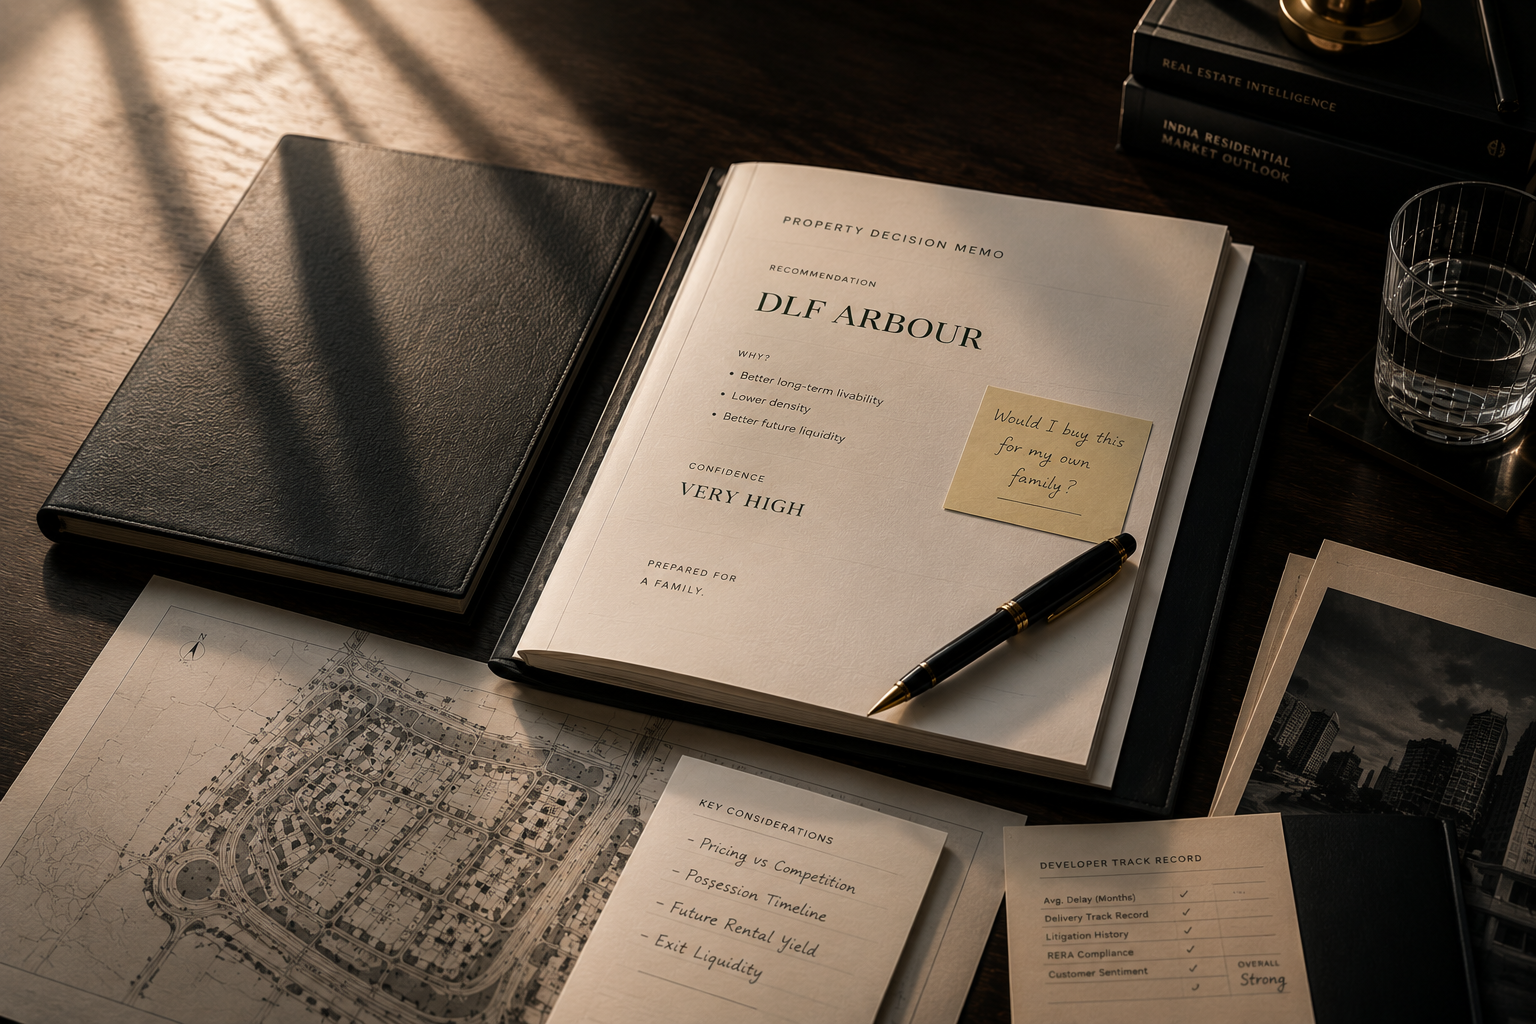
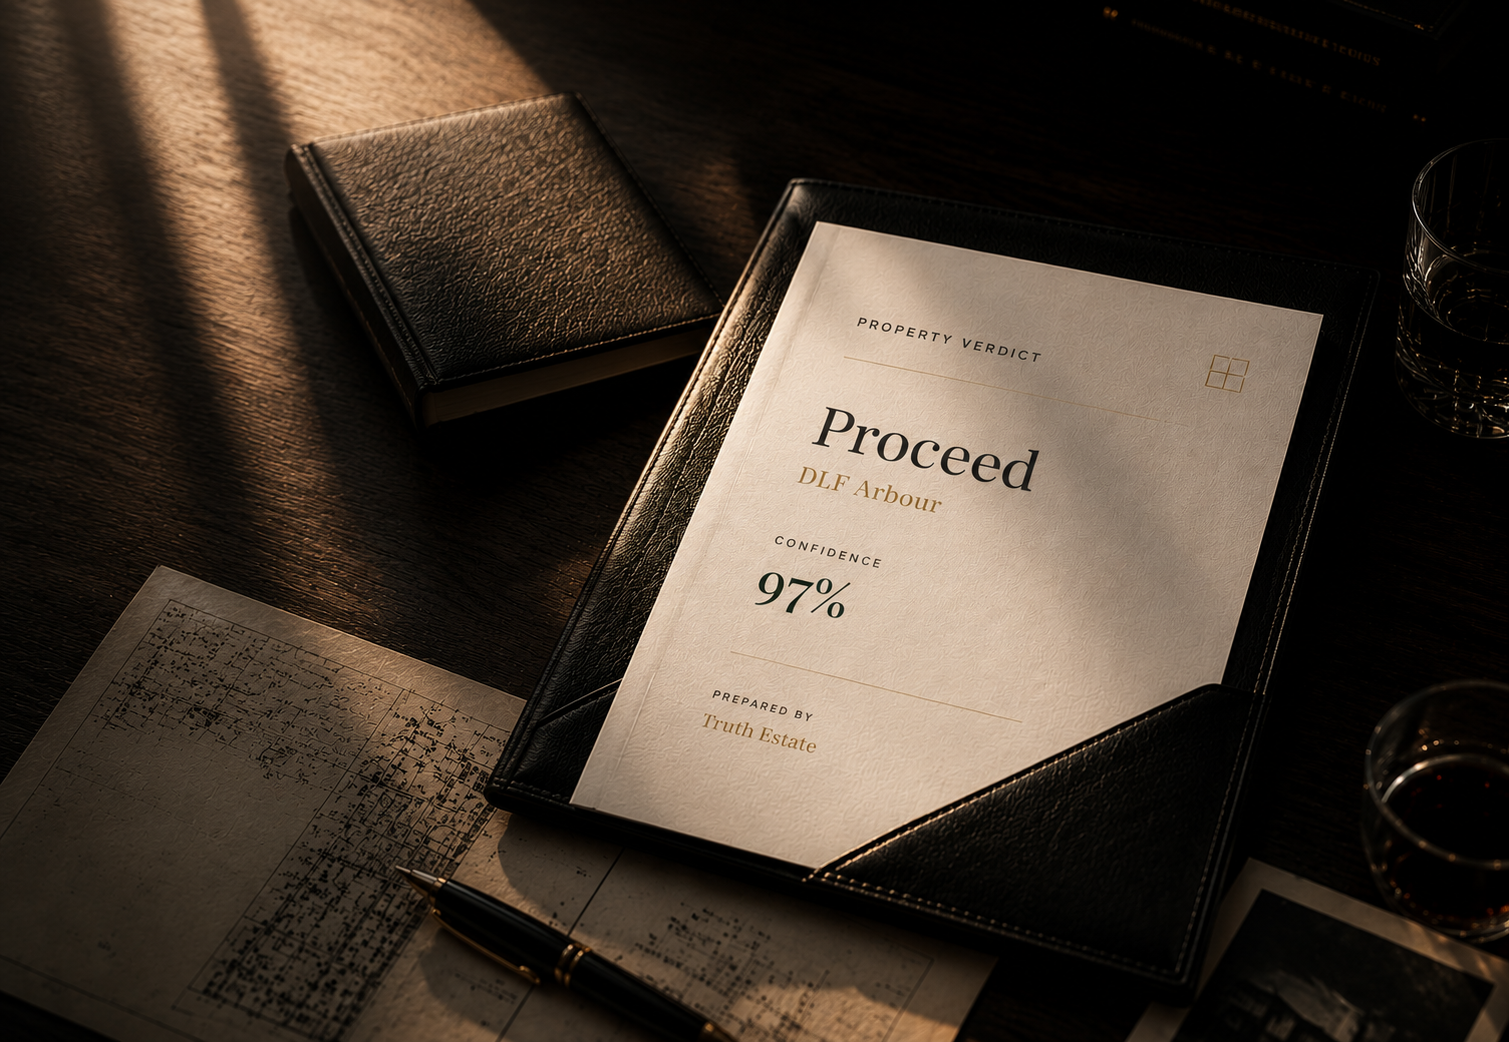
Remove HTML verdict overlay — verdict now photographed into background
New hero images have the Property Verdict document content baked directly
into the photograph. Removed the HTML card overlay and retuned all CSS
effects (depth-of-field mask, brightness, readability gradient) for the
new compositions.

Claude-Session: https://claude.ai/code/session_01BiNARstnZ88zbJRepoGmRd

diff --git a/src/components/Hero.tsx b/src/components/Hero.tsx
@@ -15,21 +15,21 @@ export default function Hero() {
           className="absolute inset-0 h-full w-full object-cover"
           style={{
             objectPosition: "center center",
-            transform: "scale(1.03) rotate(-0.4deg)",
-            filter: "brightness(0.50) contrast(1.20) saturate(1.08)",
+            transform: "scale(1.01) rotate(-0.15deg)",
+            filter: "brightness(0.68) contrast(1.10) saturate(1.02)",
           }}
         />
 
-        {/* Depth of field — sharp zone around the verdict */}
+        {/* Depth of field — verdict document stays sharp */}
         <div
           className="absolute inset-0"
           style={{
-            backdropFilter: "blur(2.5px)",
-            WebkitBackdropFilter: "blur(2.5px)",
+            backdropFilter: "blur(1.8px)",
+            WebkitBackdropFilter: "blur(1.8px)",
             maskImage:
-              "radial-gradient(ellipse 26% 42% at 76% 50%, transparent 28%, black 100%)",
+              "radial-gradient(ellipse 28% 48% at 60% 50%, transparent 28%, black 100%)",
             WebkitMaskImage:
-              "radial-gradient(ellipse 26% 42% at 76% 50%, transparent 28%, black 100%)",
+              "radial-gradient(ellipse 28% 48% at 60% 50%, transparent 28%, black 100%)",
           }}
         />
 
@@ -38,7 +38,7 @@ export default function Hero() {
           className="absolute inset-0"
           style={{
             background:
-              "radial-gradient(ellipse 60% 50% at 15% 10%, rgba(255,220,170,0.035) 0%, transparent 100%)",
+              "radial-gradient(ellipse 60% 50% at 15% 10%, rgba(255,220,170,0.025) 0%, transparent 100%)",
           }}
         />
 
@@ -47,7 +47,7 @@ export default function Hero() {
           className="absolute inset-0"
           style={{
             background:
-              "radial-gradient(ellipse 70% 65% at 50% 50%, transparent 40%, rgba(4,6,5,0.48) 100%)",
+              "radial-gradient(ellipse 72% 68% at 50% 50%, transparent 42%, rgba(4,6,5,0.42) 100%)",
           }}
         />
 
@@ -56,108 +56,9 @@ export default function Hero() {
           className="absolute inset-0"
           style={{
             background:
-              "linear-gradient(to right, rgba(4,6,5,0.78) 0%, rgba(4,6,5,0.42) 25%, rgba(4,6,5,0.08) 45%, transparent 55%)",
+              "linear-gradient(to right, rgba(4,6,5,0.78) 0%, rgba(4,6,5,0.45) 22%, rgba(4,6,5,0.10) 38%, transparent 48%)",
           }}
         />
-
-        {/* ─── The Verdict ─── */}
-        <div
-          className="absolute right-[4%] top-1/2 z-10 hidden lg:block"
-          style={{ transform: "translateY(-50%) rotate(-0.8deg)" }}
-        >
-          <div
-            className="animate-fade-up"
-            style={{ animationDelay: "500ms", perspective: "1200px" }}
-          >
-            <div
-              className="verdict-card w-[358px]"
-              style={{
-                background: "rgba(245, 240, 232, 0.90)",
-                padding: "60px 52px",
-                border: "1px solid rgba(220,215,205,0.4)",
-              }}
-            >
-              <p
-                className="font-sans uppercase"
-                style={{
-                  fontSize: "9px",
-                  letterSpacing: "0.35em",
-                  color: "rgba(30,30,30,0.38)",
-                }}
-              >
-                Property Verdict
-              </p>
-
-              <div
-                className="my-7 h-px"
-                style={{ background: "rgba(201,169,110,0.28)" }}
-              />
-
-              <p
-                className="font-serif font-light leading-none"
-                style={{ fontSize: "2.8rem", color: "#1a1a1a" }}
-              >
-                Proceed
-              </p>
-
-              <p
-                className="mt-3 font-serif"
-                style={{
-                  fontSize: "1.15rem",
-                  letterSpacing: "0.06em",
-                  color: "rgba(30,30,30,0.5)",
-                }}
-              >
-                DLF Arbour
-              </p>
-
-              <div className="mt-10">
-                <p
-                  className="font-sans uppercase"
-                  style={{
-                    fontSize: "9px",
-                    letterSpacing: "0.3em",
-                    color: "rgba(30,30,30,0.32)",
-                  }}
-                >
-                  Confidence
-                </p>
-                <p
-                  className="mt-1 font-serif font-light"
-                  style={{ fontSize: "2.1rem", color: "#1a1a1a" }}
-                >
-                  97%
-                </p>
-              </div>
-
-              <div
-                className="my-8 h-px"
-                style={{ background: "rgba(201,169,110,0.28)" }}
-              />
-
-              <p
-                className="font-sans uppercase"
-                style={{
-                  fontSize: "8px",
-                  letterSpacing: "0.3em",
-                  color: "rgba(30,30,30,0.25)",
-                }}
-              >
-                Prepared by
-              </p>
-              <p
-                className="mt-1 font-serif"
-                style={{
-                  fontSize: "12px",
-                  letterSpacing: "0.1em",
-                  color: "rgba(30,30,30,0.42)",
-                }}
-              >
-                Truth Estate
-              </p>
-            </div>
-          </div>
-        </div>
 
         {/* Content */}
         <div className="relative z-10 flex h-full flex-col justify-between py-14 pl-20 lg:py-20 lg:pl-28">
@@ -202,7 +103,22 @@ export default function Hero() {
               for India&apos;s biggest purchase.
             </p>
 
-            <div style={{ height: "48px" }} />
+            <div style={{ height: "28px" }} />
+
+            <div
+              className="animate-fade-up"
+              style={{ animationDelay: "320ms" }}
+            >
+              <div
+                style={{
+                  width: "40px",
+                  height: "1px",
+                  background: "#c9a96e",
+                }}
+              />
+            </div>
+
+            <div style={{ height: "24px" }} />
 
             <p
               className="animate-fade-up font-serif text-[17px] italic leading-[1.7] text-white/35"
@@ -271,7 +187,22 @@ export default function Hero() {
             for India&apos;s biggest purchase.
           </p>
 
-          <div style={{ height: "36px" }} />
+          <div style={{ height: "24px" }} />
+
+          <div
+            className="animate-fade-up"
+            style={{ animationDelay: "270ms" }}
+          >
+            <div
+              style={{
+                width: "32px",
+                height: "1px",
+                background: "#c9a96e",
+              }}
+            />
+          </div>
+
+          <div style={{ height: "20px" }} />
 
           <p
             className="animate-fade-up font-serif text-[15px] italic leading-[1.7] text-white/30"
@@ -308,13 +239,13 @@ export default function Hero() {
             src={`${basePath}/images/hero-mobile.jpg`}
             alt=""
             className="h-[42vh] w-full object-cover object-top"
-            style={{ filter: "brightness(0.60) contrast(1.14)" }}
+            style={{ filter: "brightness(0.70) contrast(1.10)" }}
           />
           <div
             className="absolute inset-0"
             style={{
               background:
-                "linear-gradient(to bottom, rgba(8,12,10,0.4) 0%, transparent 25%, transparent 80%, rgba(8,12,10,0.3) 100%)",
+                "linear-gradient(to bottom, rgba(8,12,10,0.35) 0%, transparent 25%, transparent 80%, rgba(8,12,10,0.25) 100%)",
             }}
           />
         </div>

diff --git a/src/app/globals.css b/src/app/globals.css
@@ -33,23 +33,3 @@ body {
   opacity: 0;
   animation: fade-up 1.1s cubic-bezier(0.16, 1, 0.3, 1) forwards;
 }
-
-.verdict-card {
-  transform: rotateX(1deg);
-  transform-origin: center bottom;
-  box-shadow:
-    0 1px 2px rgba(0, 0, 0, 0.12),
-    0 4px 8px rgba(0, 0, 0, 0.08),
-    8px 20px 60px rgba(0, 0, 0, 0.45),
-    0 40px 80px -20px rgba(0, 0, 0, 0.25);
-  transition: transform 250ms ease-out, box-shadow 250ms ease-out;
-}
-
-.verdict-card:hover {
-  transform: translateY(-4px) rotateX(0.5deg) rotate(0.2deg);
-  box-shadow:
-    0 2px 4px rgba(0, 0, 0, 0.1),
-    0 8px 16px rgba(0, 0, 0, 0.1),
-    12px 28px 80px rgba(0, 0, 0, 0.5),
-    0 50px 100px -20px rgba(0, 0, 0, 0.3);
-}